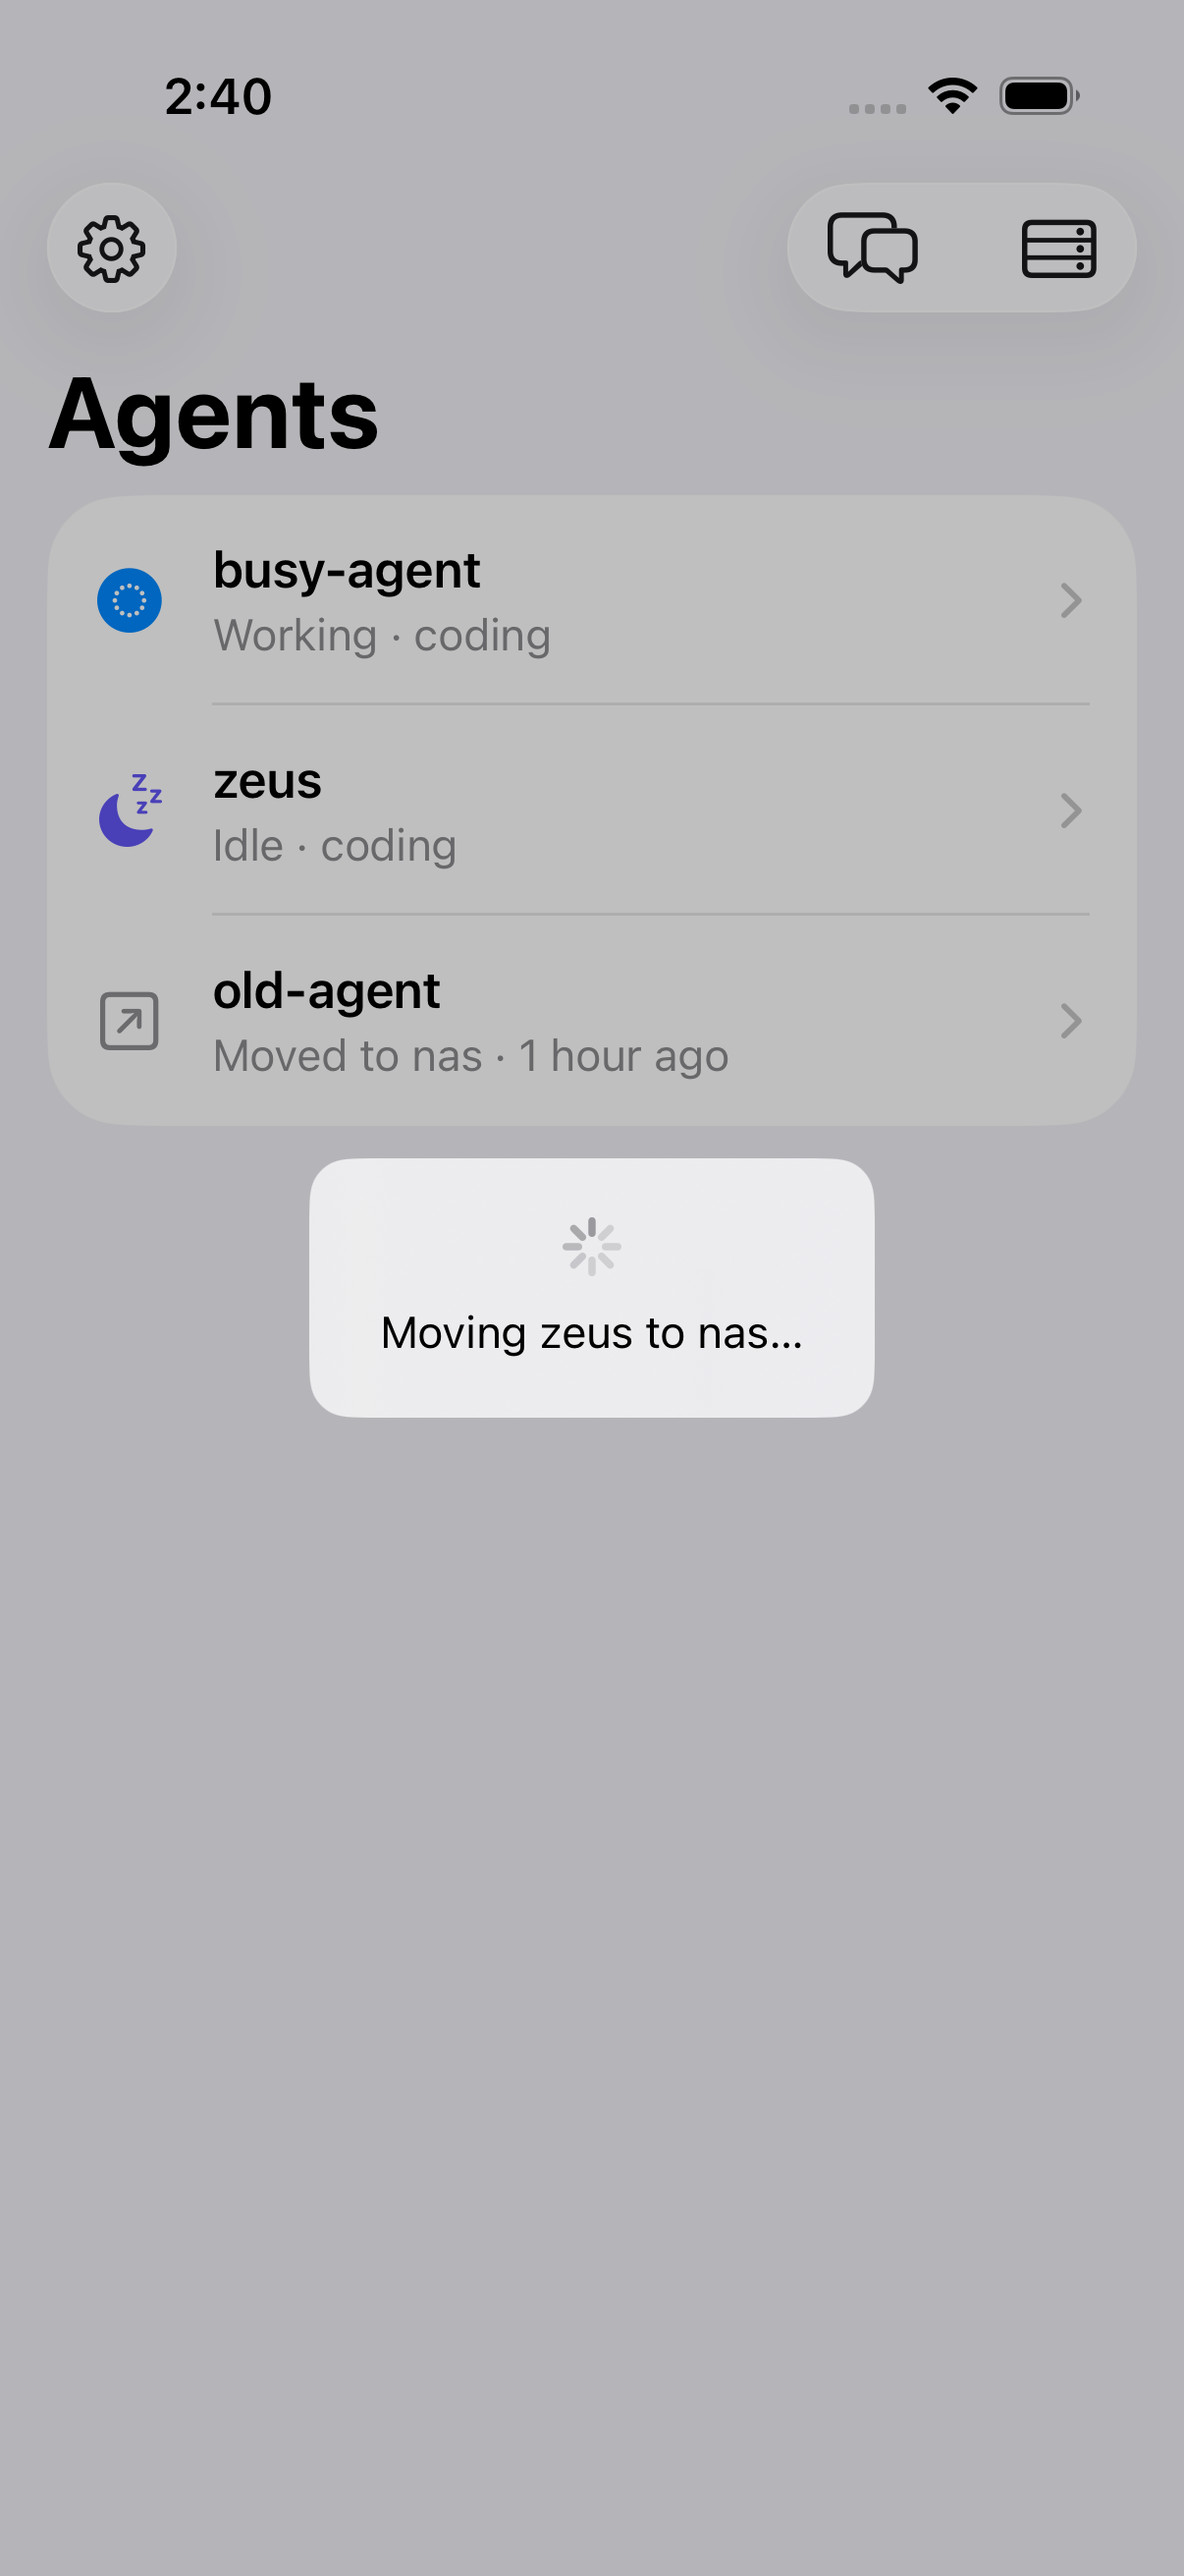
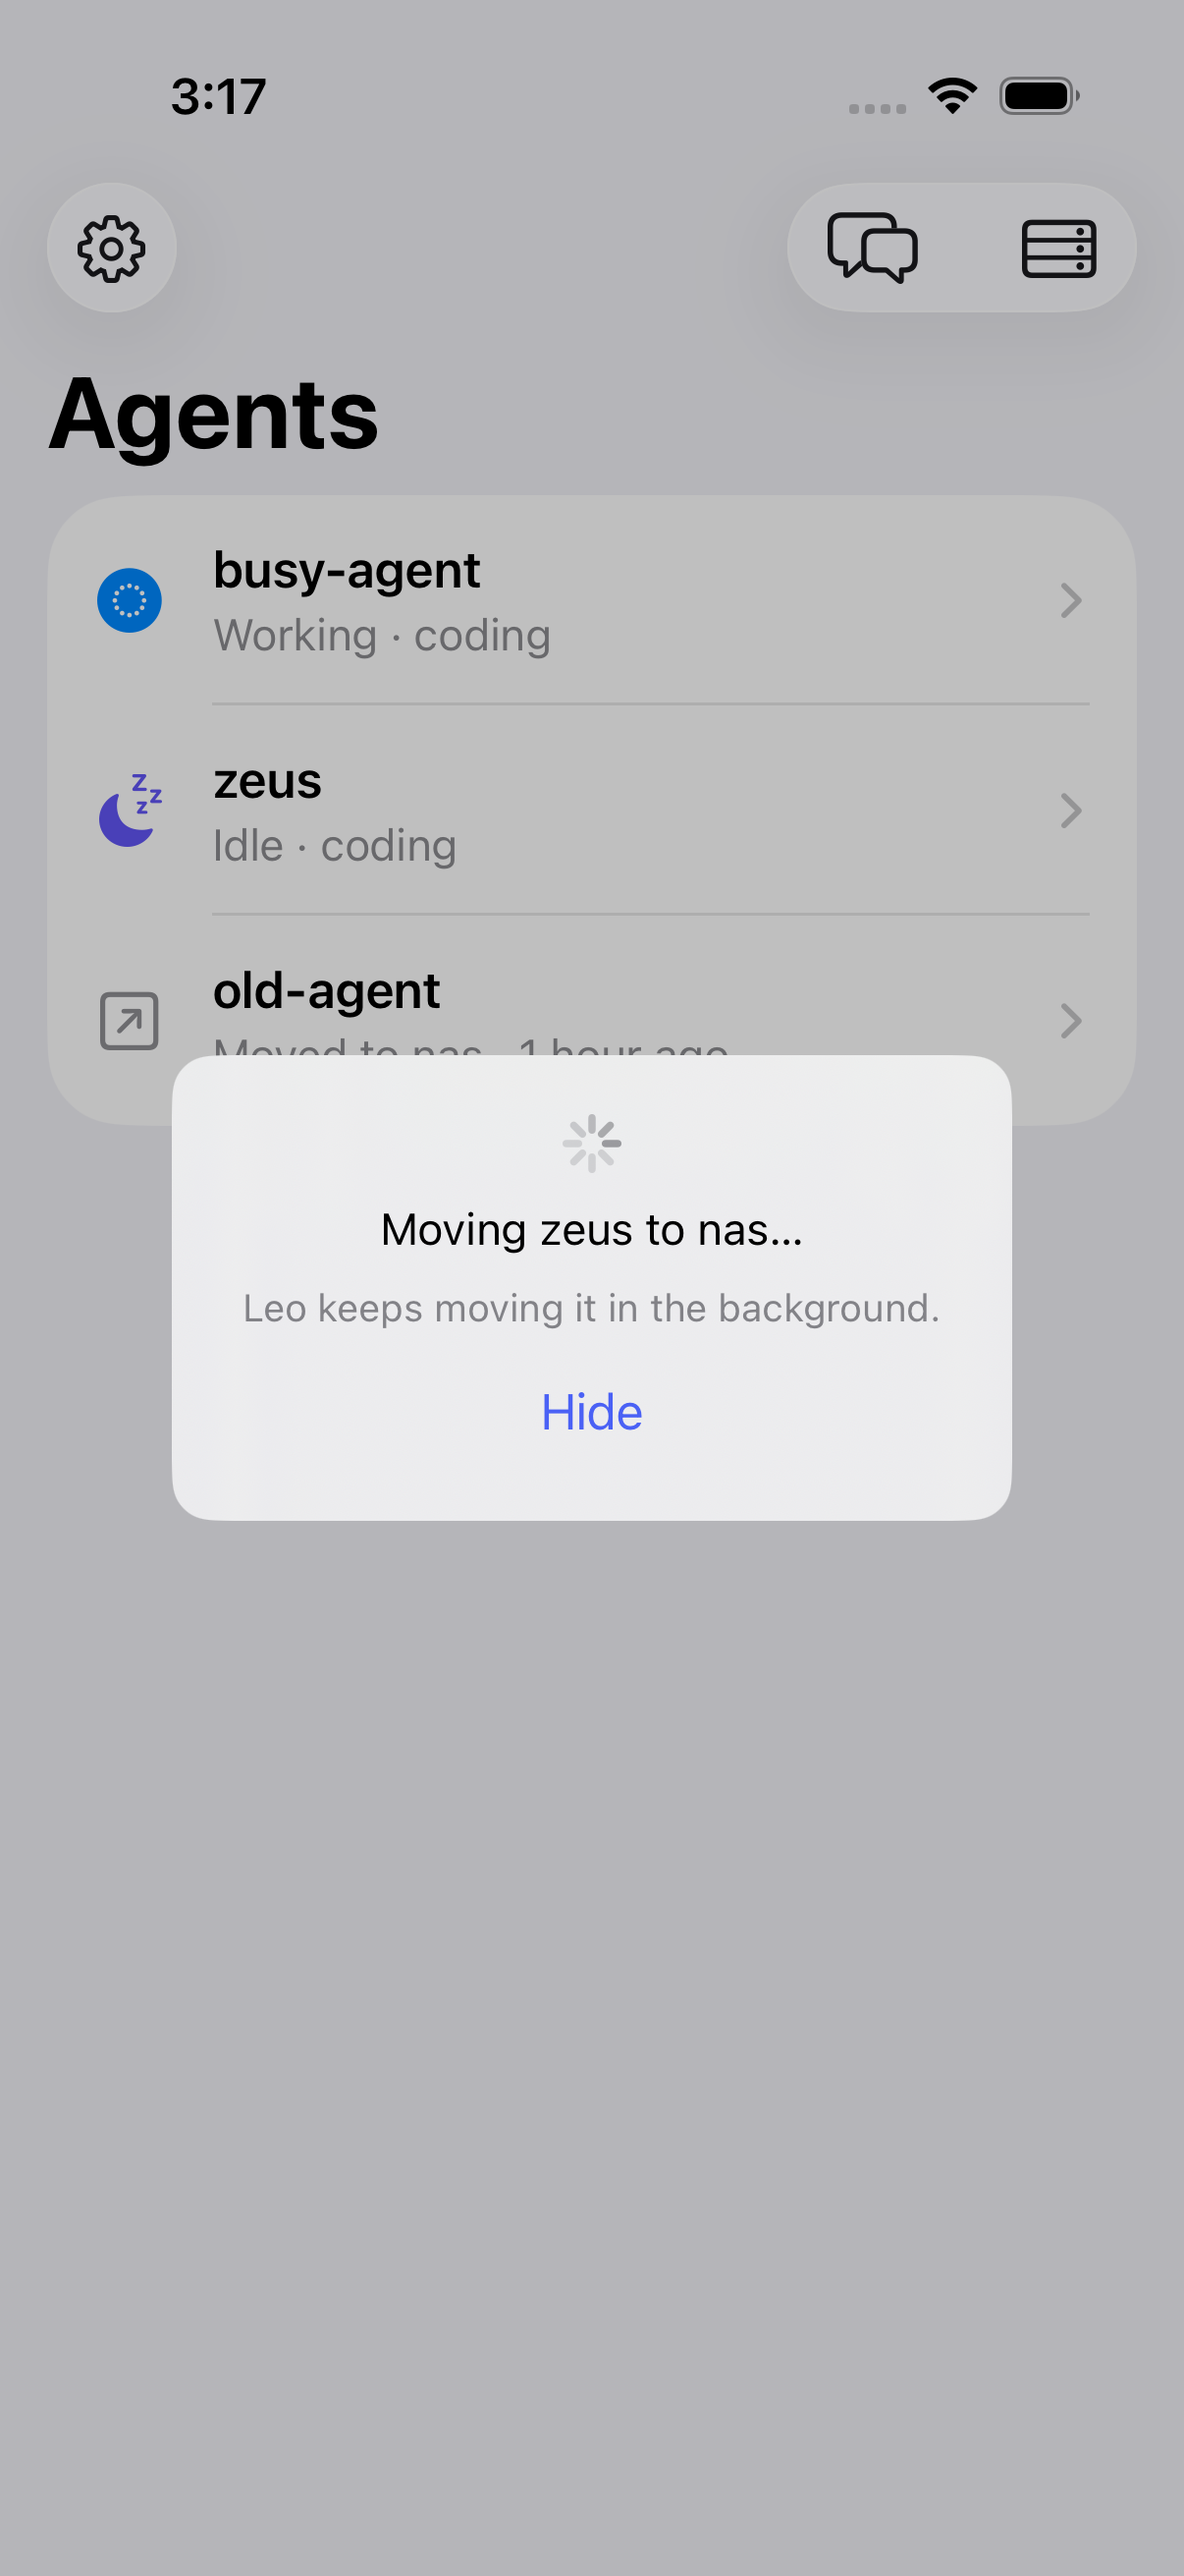
feat(ios): Hide on the move progress cover stops waiting, cancels the poll and refreshes the fleet; UI test and reshot (B-324)

Changed region(s): [[0.1227, 0.4016, 0.859, 0.6178], [0.1534, 0.0309, 0.2454, 0.0618]]

diff --git a/ios/Leo/App/RootSplitViewController.swift b/ios/Leo/App/RootSplitViewController.swift
@@ -27,7 +27,7 @@ final class RootSplitViewController: UISplitViewController, UISplitViewControlle
     /// `isCollapsed` flips, which is not the user popping back.
     private var transitionsInFlight = 0
     private var isShowingNamePrompt = false
-    private let moveProgress = MoveProgressView()
+    private lazy var moveProgress = MoveProgressView { [weak self] in self?.store.send(.move(.presented(.hideTapped))) }
 
     init(store: StoreOf<AppFeature>) {
         self.store = store
@@ -251,10 +251,11 @@ final class NoSelectionViewController: UIViewController {
 /// one, and says what is happening.
 private final class MoveProgressView: UIView {
     private let label = UILabel()
+    private let detail = UILabel()
     private let spinner = UIActivityIndicatorView(style: .medium)
 
-    override init(frame: CGRect) {
-        super.init(frame: frame)
+    init(onHide: @escaping () -> Void) {
+        super.init(frame: .zero)
         isHidden = true
         accessibilityIdentifier = "agent.move.progress"
         backgroundColor = UIColor.black.withAlphaComponent(0.25)
@@ -265,8 +266,18 @@ private final class MoveProgressView: UIView {
         label.numberOfLines = 0
         label.textAlignment = .center
         label.adjustsFontForContentSizeCategory = true
+        detail.text = String(localized: "Leo keeps moving it in the background.")
+        detail.font = .preferredFont(forTextStyle: .footnote)
+        detail.textColor = .secondaryLabel
+        detail.numberOfLines = 0
+        detail.textAlignment = .center
+        detail.adjustsFontForContentSizeCategory = true
+        var hide = UIButton.Configuration.plain()
+        hide.title = String(localized: "Hide")
+        let hideButton = UIButton(configuration: hide, primaryAction: UIAction { _ in onHide() })
+        hideButton.accessibilityIdentifier = "agent.move.hide"
         spinner.startAnimating()
-        let stack = UIStackView(arrangedSubviews: [spinner, label])
+        let stack = UIStackView(arrangedSubviews: [spinner, label, detail, hideButton])
         stack.axis = .vertical
         stack.spacing = 10
         stack.alignment = .center

diff --git a/ios/LeoFeatures/Tests/LeoFeaturesTests/AppFeatureMoveTests.swift b/ios/LeoFeatures/Tests/LeoFeaturesTests/AppFeatureMoveTests.swift
@@ -36,6 +36,39 @@ struct AppFeatureMoveTests {
         await store.send(.moveRequested(AgentRef(daemonID: PairedDaemon.dionysus.id, name: "hera"), .move(to: "nas")))
     }
 
+    @Test func hidingAMoveInFlightDismissesItCancelsItsPollAndRefreshesTheFleet() async {
+        let started = LockIsolated<CheckedContinuation<Void, Never>?>(nil)
+        let wasCancelled = LockIsolated(false)
+        var initial = Self.state()
+        initial.move = AgentMove.State(daemon: .dionysus, agentName: "zeus", intent: .move(to: "nas"))
+        let moved = LeoObservedAgent(
+            name: "zeus", status: .stopped, activity: nil, currentAction: nil, lastActivityAt: nil,
+            movedTo: "nas", movedAt: "2026-10-28T17:00:00Z"
+        )
+        let store = TestStore(initialState: initial) {
+            AppFeature()
+        } withDependencies: {
+            $0.secrets.load = { _ in DaemonSecrets(token: "t") }
+            $0.daemonClient.fetchState = { _ in LeoObservedState(agents: [moved]) }
+            $0.daemonClient.move = { _, _, _ in
+                await withTaskCancellationHandler {
+                    await withCheckedContinuation { started.setValue($0) }
+                } onCancel: { wasCancelled.setValue(true) }
+                throw CancellationError()
+            }
+        }
+        await store.send(\.move.presented.confirmation.presented.start, false) {
+            $0.move?.confirmation = nil
+            $0.move?.isMoving = true
+        }
+        await store.send(\.move.presented.hideTapped)
+        await store.receive(\.move.presented.delegate.hidden) { $0.move = nil }
+        await store.receive(\.fleet.snapshotLoaded) { $0.fleet.sessions[0].agents = [Agent(moved)] }
+        started.value?.resume()
+        await store.finish()
+        #expect(wasCancelled.value)
+    }
+
     @Test func replacingTheFlowCancelsTheOldMovesEffect() async {
         let gate = LockIsolated<CheckedContinuation<Void, Never>?>(nil)
         var initial = Self.state()

diff --git a/ios/LeoFeatures/Sources/LeoFeatures/Features/AgentMove.swift b/ios/LeoFeatures/Sources/LeoFeatures/Features/AgentMove.swift
@@ -54,6 +54,8 @@ public struct AgentMove {
         case confirmation(PresentationAction<Confirmation>)
         case delegate(Delegate)
         case finished(Result<LeoAgentMoveOutcome, any Error>)
+        /// "Hide" on the progress cover: stop waiting; the daemon job carries on.
+        case hideTapped
         case nameCancelled
         case nameSubmitted(String)
 
@@ -68,6 +70,9 @@ public struct AgentMove {
             case completed
             /// Nothing more to show; the parent drops this flow.
             case dismissed
+            /// The user stopped waiting on a job still running on the daemon:
+            /// the parent drops the flow (cancelling its poll) and refreshes.
+            case hidden
         }
     }
 
@@ -84,6 +89,9 @@ public struct AgentMove {
 
             case .alert, .delegate:
                 return .none
+
+            case .hideTapped:
+                return .send(.delegate(.hidden))
 
             case .confirmation(.presented(.start(let force))):
                 guard case .move(let host) = state.intent else { return .none }

diff --git a/ios/LeoUITests/LeoMoveTests.swift b/ios/LeoUITests/LeoMoveTests.swift
@@ -41,8 +41,21 @@ final class LeoMoveTests: XCTestCase {
         app.buttons["nas"].tap()
         app.buttons["Move"].tap()
         XCTAssertTrue(app.staticTexts["Moving zeus to nas…"].waitForExistence(timeout: 5))
+        XCTAssertTrue(app.buttons["agent.move.hide"].exists)
         shot("in-progress")
         XCTAssertFalse(app.cells["agent.busy-agent"].isHittable, "the progress cover blocks every row, menu and swipe while a move is in flight")
+    }
+
+    func testHidingAMoveInFlightGivesTheAppBack() {
+        let app = launch(hanging: true)
+        app.cells["agent.zeus"].press(forDuration: 1.2)
+        app.buttons["Move To"].tap()
+        app.buttons["nas"].tap()
+        app.buttons["Move"].tap()
+        XCTAssertTrue(app.buttons["agent.move.hide"].waitForExistence(timeout: 5))
+        app.buttons["agent.move.hide"].tap()
+        XCTAssertFalse(app.staticTexts["Moving zeus to nas…"].waitForExistence(timeout: 2))
+        XCTAssertTrue(app.cells["agent.busy-agent"].isHittable)
     }
 
     func testAMovedAgentIsADormantRowWithItsDestination() {

diff --git a/ios/LeoFeatures/Sources/LeoFeatures/Features/AppFeature.swift b/ios/LeoFeatures/Sources/LeoFeatures/Features/AppFeature.swift
@@ -197,6 +197,11 @@ public struct AppFeature {
                     if state.move?.alert == nil { state.move = nil }
                     return id.map { fleet(.refreshRequested($0), state: &state) } ?? .none
 
+                case .move(.presented(.delegate(.hidden))):
+                    let id = state.move?.daemon.id
+                    state.move = nil
+                    return id.map { fleet(.refreshRequested($0), state: &state) } ?? .none
+
                 case .move(.presented(.delegate(.dismissed))):
                     state.move = nil
                     return .none
